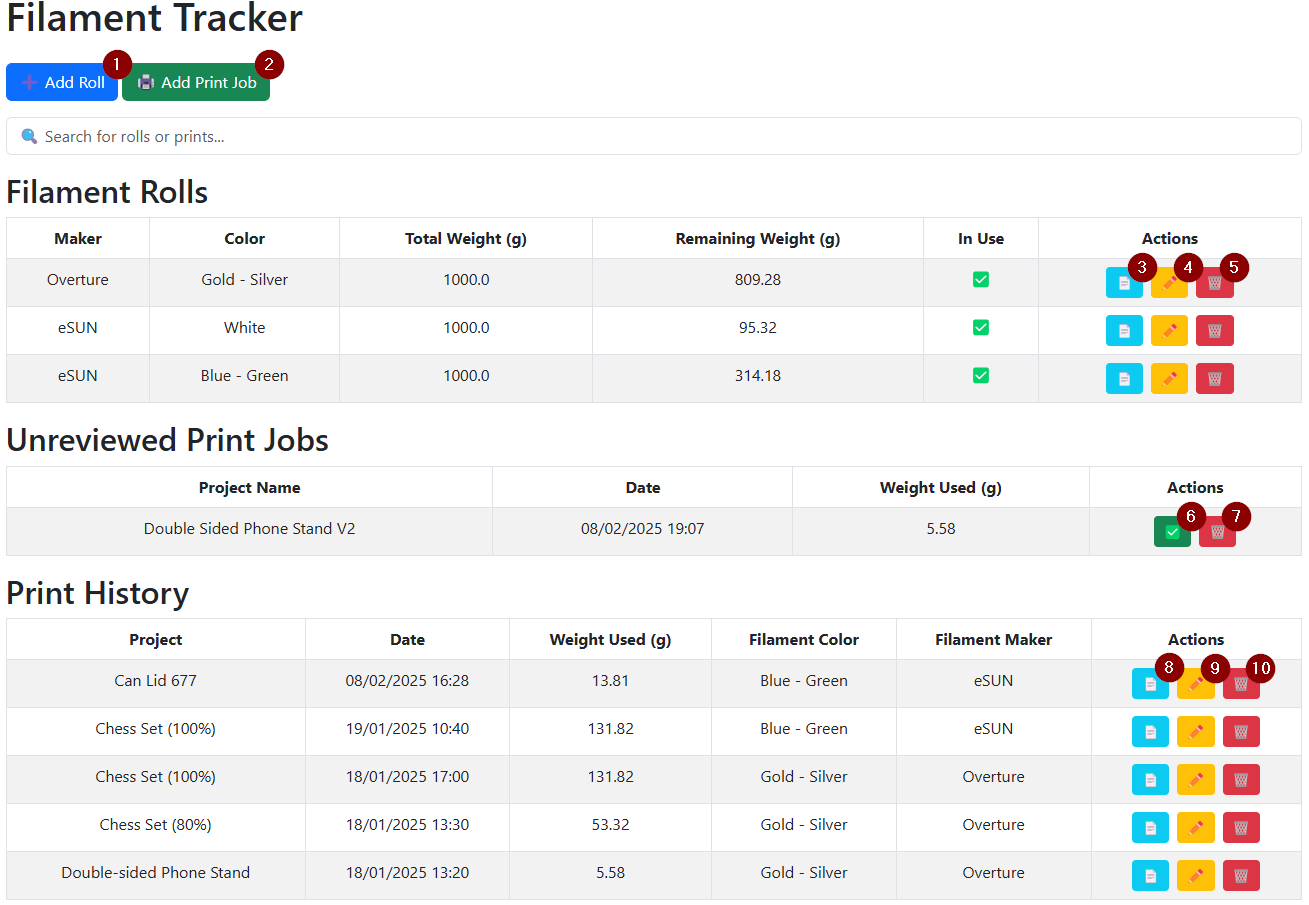
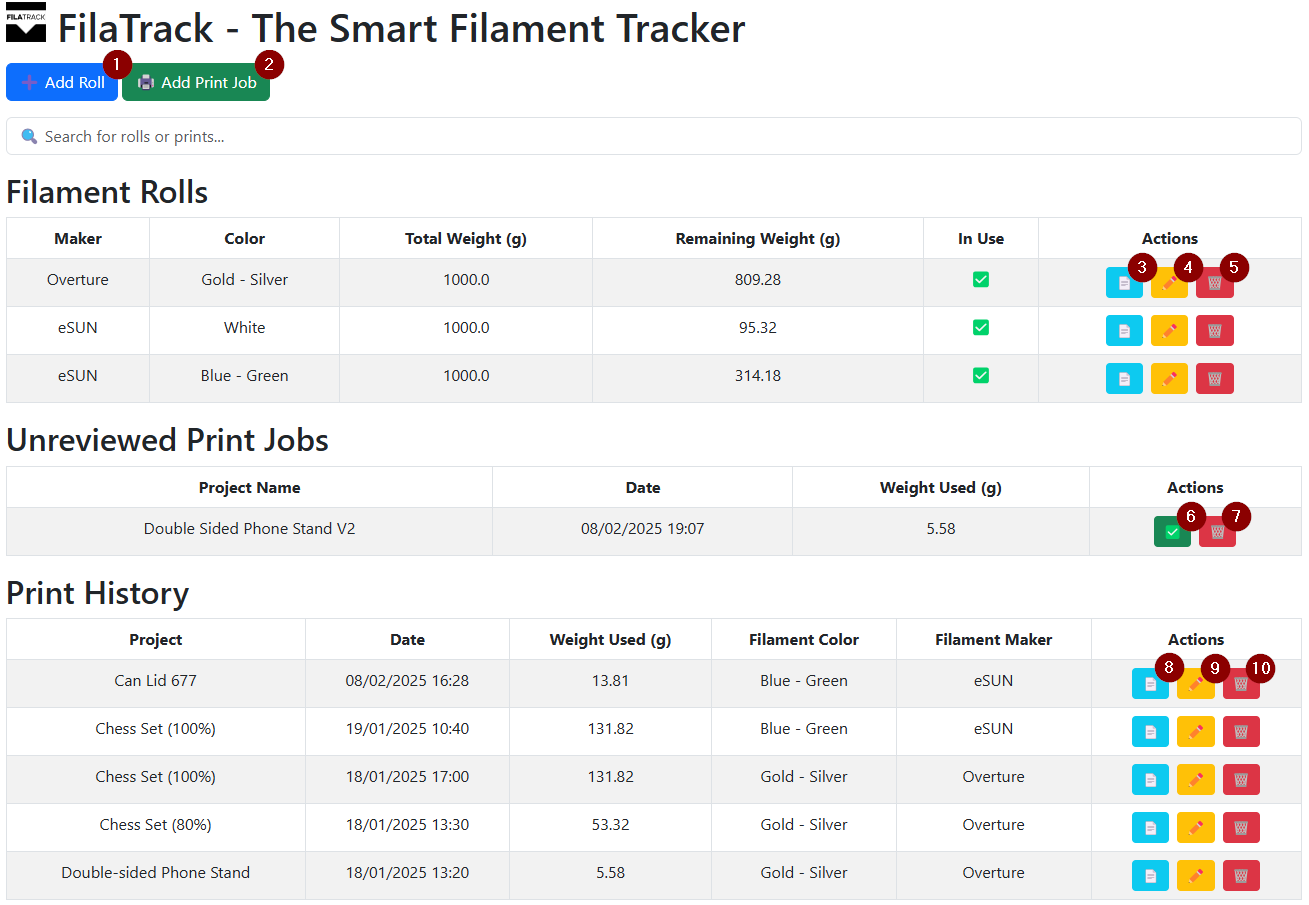
Added branding - we're FilaTrack now

Changed region(s): [[0.0, 0.0, 0.5806, 0.0619]]

diff --git a/app/templates/index.html b/app/templates/index.html
@@ -3,8 +3,10 @@
 <head>
     <meta charset="UTF-8">
     <meta name="viewport" content="width=device-width, initial-scale=1.0">
-    <title>Filament Tracker</title>
+    <title>FilaTrack</title>
     <link href="https://cdn.jsdelivr.net/npm/bootstrap@5.3.0/dist/css/bootstrap.min.css" rel="stylesheet">
+    <link rel="icon" href="{{ url_for('static', filename='images/filatrack_icon.svg') }}" type="image/svg+xml">
+
     <style>
         .table-auto {
             table-layout: auto;
@@ -17,7 +19,10 @@
     </style>
 </head>
 <body class="container mt-4">
-    <h1 class="mb-4">Filament Tracker</h1>
+    <h1 class="mb-4">
+        <img src="{{ url_for('static', filename='images/filatrack_logo.svg') }}" class="align-top" width="40">
+        FilaTrack - The Smart Filament Tracker
+    </h1>
 
     <!-- Buttons to open modals -->
     <div class="mb-3">

diff --git a/app/__init__.py b/app/__init__.py
@@ -1,8 +1,12 @@
+import os
 from flask import Flask
 from flask_sqlalchemy import SQLAlchemy
 from flask_migrate import Migrate
 
-app = Flask(__name__)
+base_dir = os.path.abspath(os.path.join(os.path.dirname(__file__), '..'))
+static_folder = os.path.join(base_dir, 'static')
+
+app = Flask(__name__, static_folder=static_folder)
 app.config.from_object("config.Config")
 
 # Disable template caching

diff --git a/README.md b/README.md
@@ -1,6 +1,6 @@
-# Filament Tracker
+# ![FilaTrack Logo](./static/images/filatrack_logo_32.png) FilaTrack - The Smart Filament Tracker
 
-Filament Tracker is a **Flask-based Python web app** for managing **3D printing filament usage and print jobs**.
+FilaTrack is a **Flask-based Python web app** for managing **3D printing filament usage and print jobs**.
 It tracks **filament rolls**, logs **print jobs**, and integrates with **PrusaSlicer** to automatically import print data.
 
 ## Features
@@ -43,7 +43,7 @@ The application will run as a Docker container. Access it in your browser at [ht
 
 ## Slicer Integration
 
-Filament Tracker can automatically capture **filament usage and project names** from different slicers using a post-processing script.
+FilaTrack can automatically capture **filament usage and project names** from different slicers using a post-processing script.
 
 ### Supported / Tested Slicers
 * **PrusaSlicer**
@@ -96,13 +96,13 @@ INFO:root:Successfully sent data to Filament Tracker API
 
 #### **4⃣ Assigning the Unreviewed Print Jobs**
 
-1. Open Filament Tracker (`http://localhost:5000`).
+1. Open FilaTrack (`http://localhost:5000`).
 2. Under **Unreviewed Print Jobs**, find the newly added entry.
 3. Click **Approve**, select the correct filament roll, adjust values if needed, and save the print job.
 
 ## Usage
 
-![Filament Tracker UI](./static/images/UI.png)
+![FilaTrack UI](./static/images/UI.png)
 
 ### Adding a Filament Roll
 
